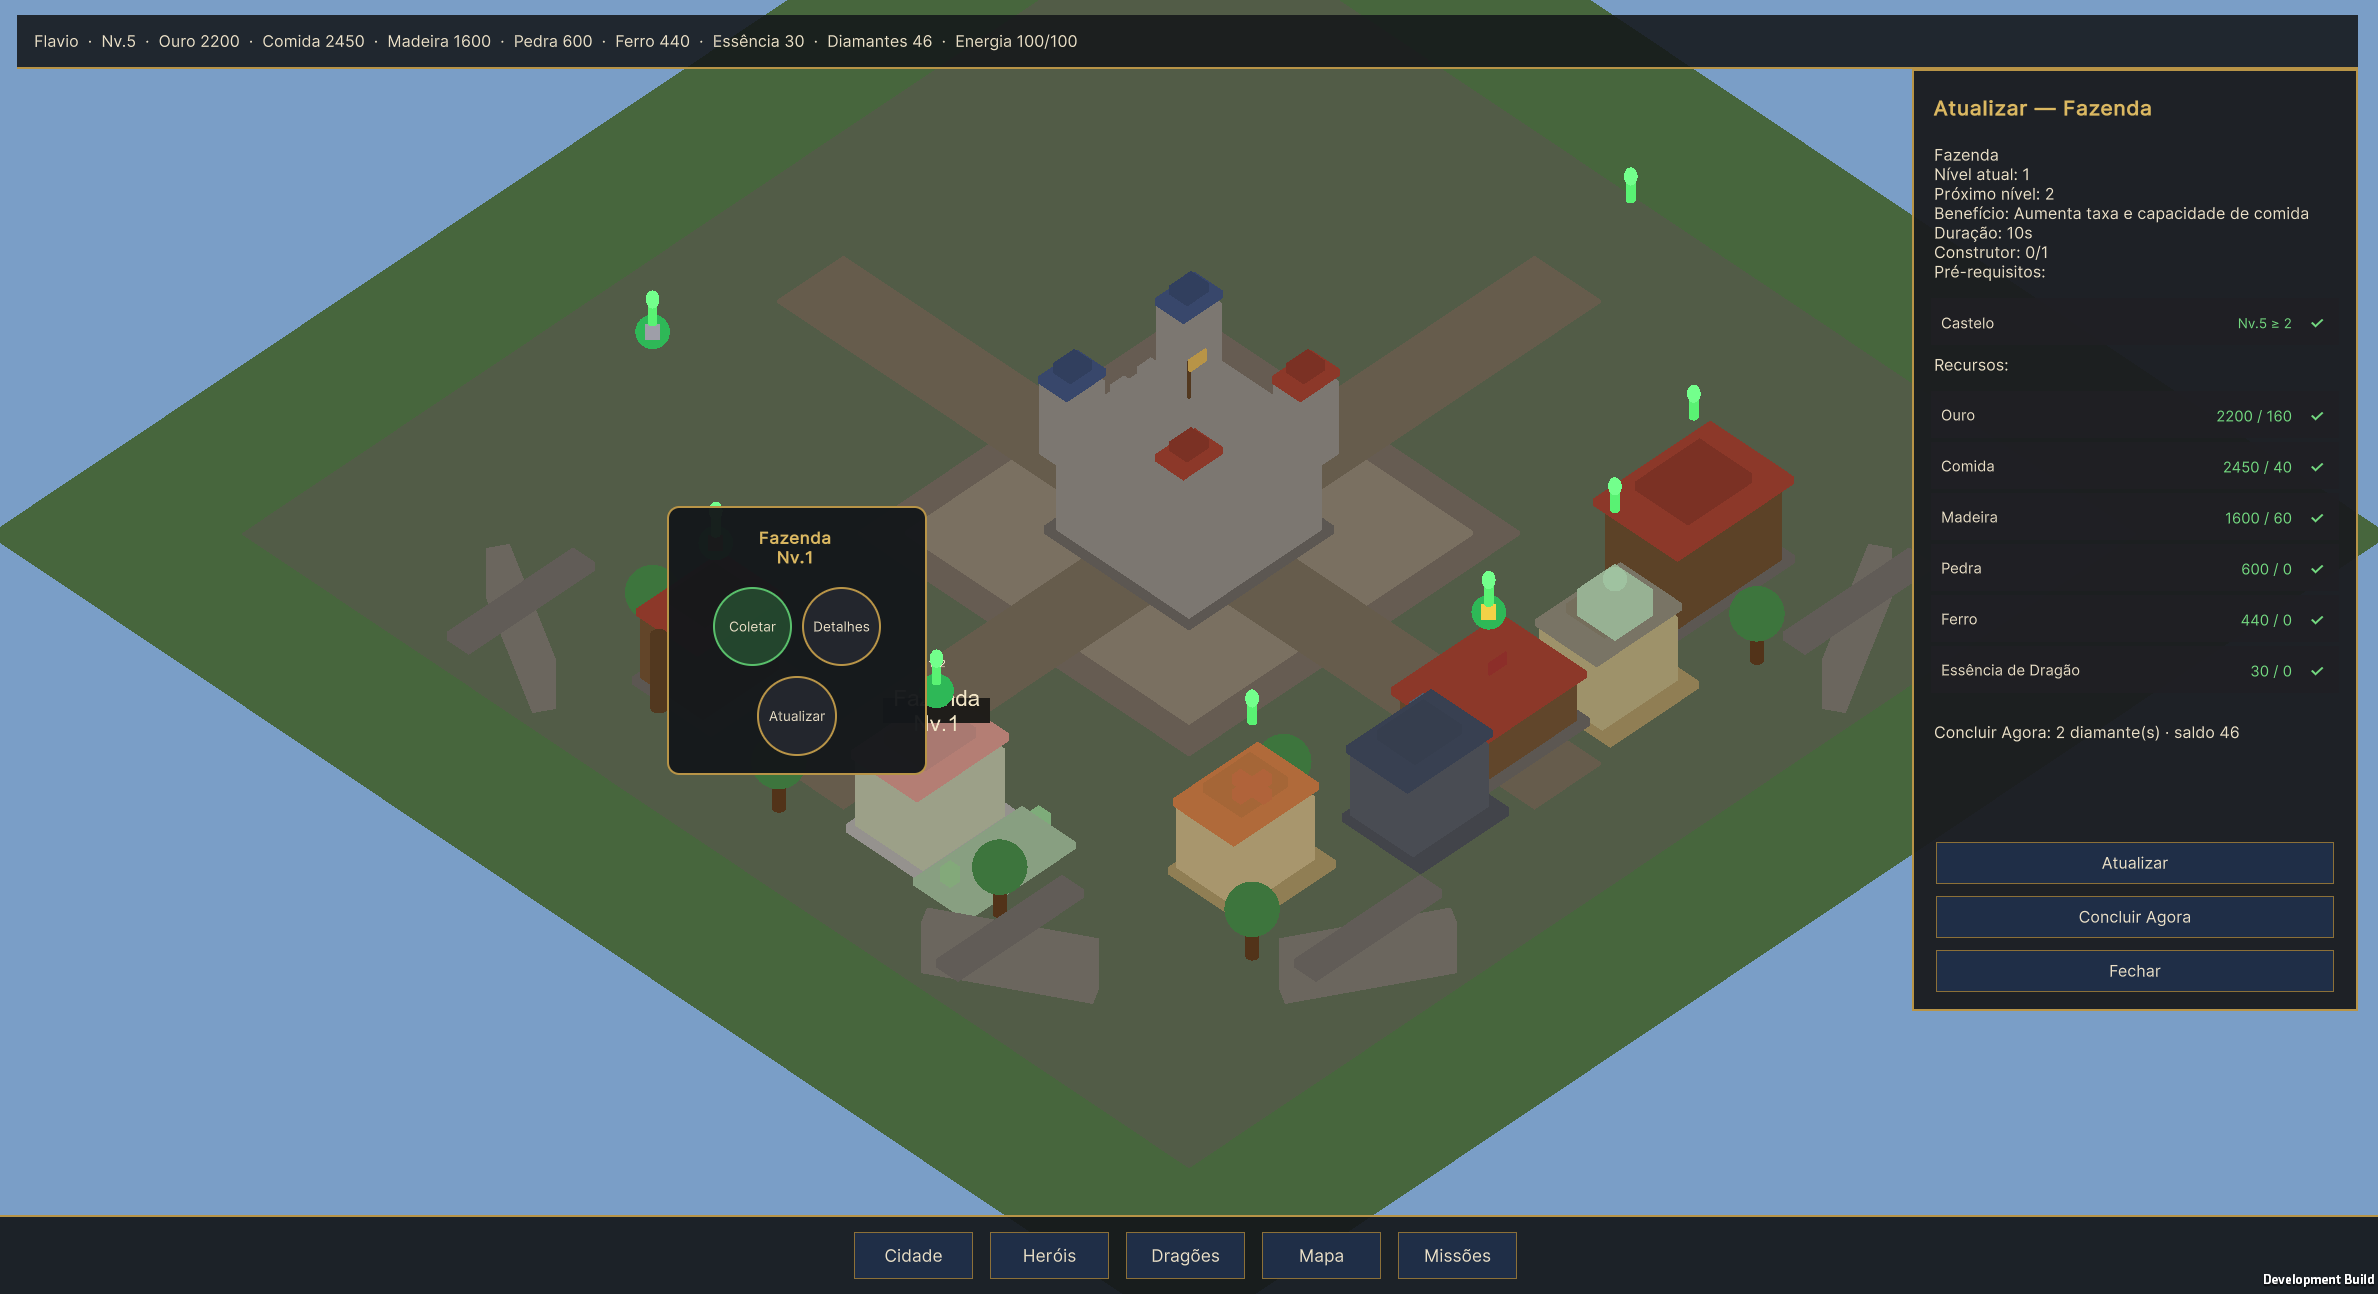
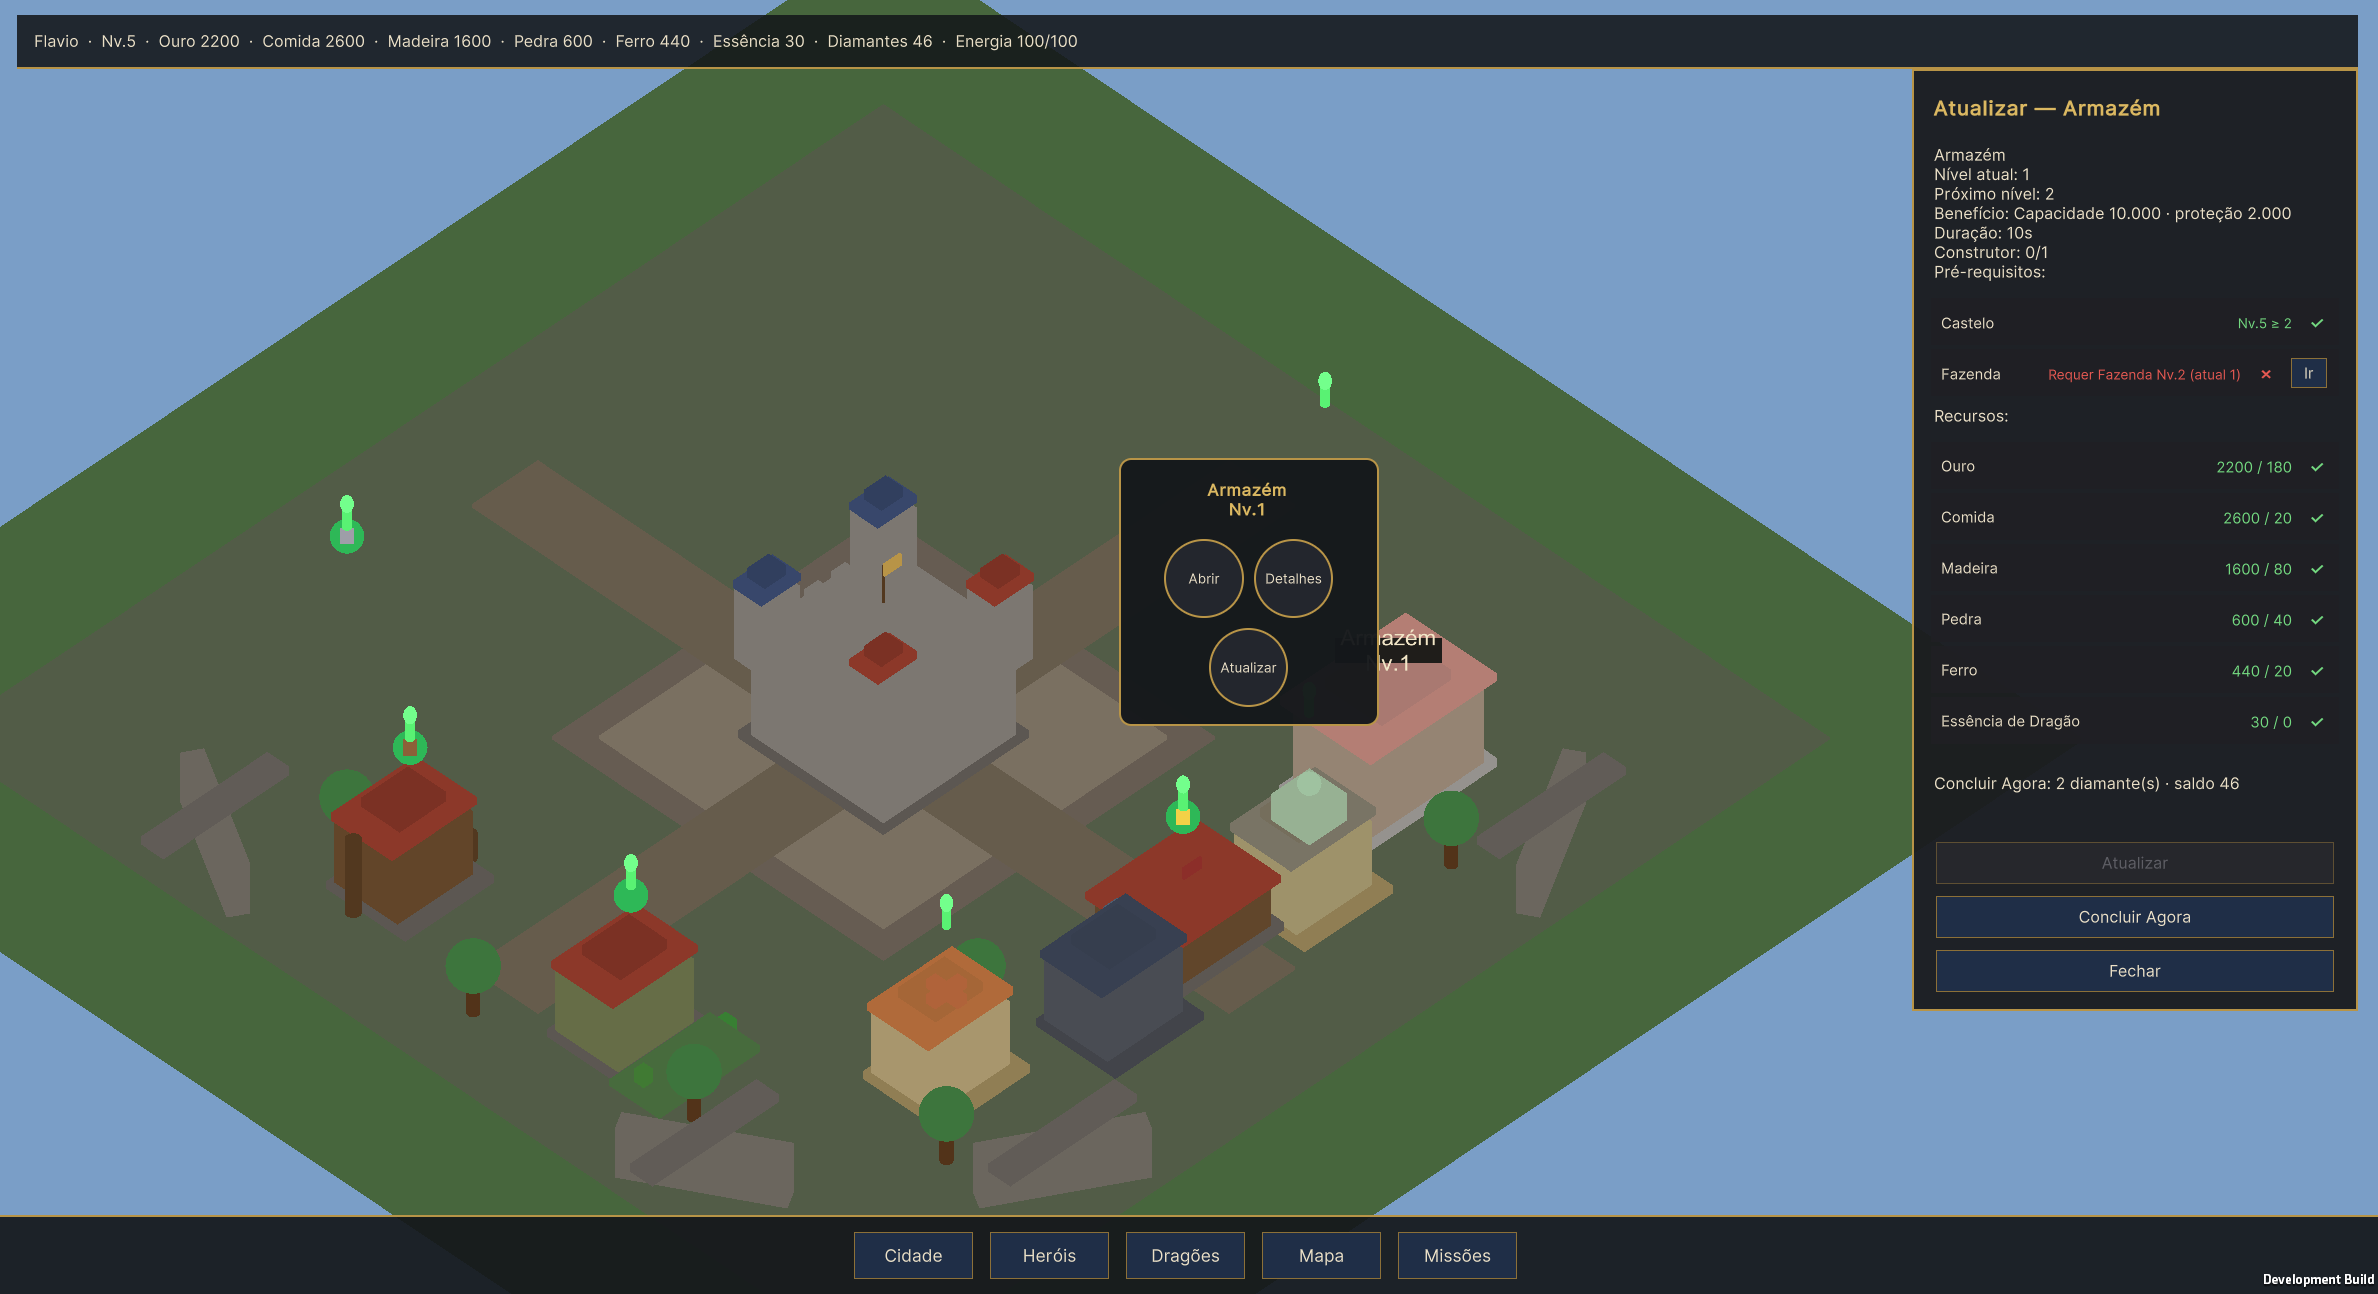
feat(city): show blocked warehouse prereq with Ir to farm
Warehouse→2 requires Farm 2 so smoke/exe validates red deps + Ir navigation.

diff --git a/client/Assets/_Valgor/Scripts/Runtime/UI/CheckpointSmokeDriver.cs b/client/Assets/_Valgor/Scripts/Runtime/UI/CheckpointSmokeDriver.cs
@@ -181,14 +181,17 @@ namespace Valgor.UI
             yield return Capture("ux-06-upgrade-panel");
             yield return Capture("ux-07-upgrade-requirements");
 
-            TrySelectCityBuilding("farm");
+            TrySelectCityBuilding("warehouse");
             yield return new WaitForSecondsRealtime(0.8f);
             InvokeCityPresenter("DebugOpenUpgradePanel");
             yield return new WaitForSecondsRealtime(1f);
             yield return Capture("ux-11-prereq-blocked");
+            // Tentativa bloqueada: não deve debitar recursos (gold permanece).
+            TryCityUpgradeSelected();
+            yield return new WaitForSecondsRealtime(0.3f);
             InvokeCityPresenter("DebugGoToFirstUnmetRequirement");
             yield return new WaitForSecondsRealtime(1.2f);
-            yield return Capture("ux-12-prereq-go-castle");
+            yield return Capture("ux-12-prereq-go-farm");
 
             TrySelectCityBuilding("farm");
             yield return new WaitForSecondsRealtime(0.8f);

diff --git a/tools/Valgor.GameLogic.Tests/CityFoundationTests.cs b/tools/Valgor.GameLogic.Tests/CityFoundationTests.cs
@@ -159,11 +159,11 @@ public sealed class BuildingRequirementCatalogTests
     }
 
     [Fact]
-    public void Warehouse_Level2_RequiresFarm1()
+    public void Warehouse_Level2_RequiresFarm2()
     {
         var req = BuildingRequirementCatalog.GetRequirement("warehouse", currentLevel: 1);
         Assert.Equal(2, req.MinimumCastleLevel);
-        Assert.Contains(req.RequiredBuildings, b => b.BuildingDefinitionId == "farm" && b.MinimumLevel == 1);
+        Assert.Contains(req.RequiredBuildings, b => b.BuildingDefinitionId == "farm" && b.MinimumLevel == 2);
     }
 
     [Fact]
@@ -216,7 +216,7 @@ public sealed class BuildingRequirementCatalogTests
         var ok = BuildingRequirementEvaluator.MeetsAll(
             warehouse,
             castleLevel: 2,
-            id => id == "farm" ? 1 : 0);
+            id => id == "farm" ? 2 : 0);
 
         Assert.True(ok);
     }

diff --git a/client/Assets/Valgor/City/Buildings/BuildingRequirementCatalog.cs b/client/Assets/Valgor/City/Buildings/BuildingRequirementCatalog.cs
@@ -69,7 +69,7 @@ namespace Valgor.City.Buildings
                     defaultRequirement: DynamicCastle(),
                     byTargetLevel: new Dictionary<int, BuildingUpgradeRequirement>
                     {
-                        [2] = WithBuildings(2, new BuildingLevelRequirement("farm", 1, "Fazenda")),
+                        [2] = WithBuildings(2, new BuildingLevelRequirement("farm", 2, "Fazenda")),
                         [3] = WithBuildings(3, new BuildingLevelRequirement("farm", 2, "Fazenda")),
                         [4] = WithBuildings(4, new BuildingLevelRequirement("farm", 2, "Fazenda")),
                         [5] = WithBuildings(5, new BuildingLevelRequirement("farm", 3, "Fazenda"))

diff --git a/docs/project-control/VALGOR_IMPLEMENTATION_STATUS.md b/docs/project-control/VALGOR_IMPLEMENTATION_STATUS.md
@@ -1,4 +1,4 @@
-# VALGOR — Matriz de Implementação e Auditoria de Aderência
+# VALGOR — Matriz de Implementação e Auditoria de Aderência
 
 **Documento:** `docs/project-control/VALGOR_IMPLEMENTATION_STATUS.md`  
 **Auditoria:** 2026-07-27  
@@ -326,10 +326,11 @@ Histórico completo: `git log --oneline` no repositório.
 - Sem novos edifícios; sem reescrita do fluxo de upgrade; **sem** arquivos de outros repositórios.
 - `dotnet test tools/Valgor.GameLogic.Tests`: **125 aprovados / 0 falha / 125 total**.
 - `dotnet test server/Valgor.sln`: **23 aprovados / 0 falha / 23 total** (Domain 15 + Application 4 + Api 4).
-- Build: `C:\Valgor_Studio\builds\windows\Valgor-Beta-0.1\Valgor.exe` (Length=672256, LastWriteTime=2026-07-27 15:06:01).
+- Build: `C:\Valgor_Studio\builds\windows\Valgor-Beta-0.1\Valgor.exe` (Length=672256, LastWriteTime=2026-07-27 15:11:43).
+- Evidência smoke: `ux-11-prereq-blocked` (Armazém bloqueado — pré-requisito Fazenda em vermelho + botão **Ir**; Atualizar desabilitado/bloqueado) e `ux-12-prereq-go-farm` (após **Ir**, Fazenda selecionada/focada).
 - Smoke: `scripts/capture-checkpoint-evidence.ps1` exit 0; PNGs em `builds/windows/Valgor-Beta-0.1/evidence/` e versionados em `docs/releases/beta-0.1-evidence/ux-contextual/`:
   - `ux-11-prereq-blocked.png`
-  - `ux-12-prereq-go-castle.png`
+  - `ux-12-prereq-go-farm.png`
 
 ## Patch crítico — clique nos edifícios (2026-07-27)
 

diff --git a/docs/architecture/city-building-upgrade-requirements.md b/docs/architecture/city-building-upgrade-requirements.md
@@ -25,7 +25,7 @@ Extensão do upgrade existente (sem novos edifícios). Um prédio só evolui qua
 | Edifício | Evoluir para Nv.N |
 |----------|-------------------|
 | **Fazenda** | Castelo ≥ N |
-| **Armazém** | Castelo ≥ N; em níveis do catálogo, Fazenda no nível exigido |
+| **Armazém** | Castelo ≥ N; Nv.2+ exige Fazenda (Nv.2 no catálogo para alvo 2–4; Nv.3 para alvo 5) |
 | **Castelo** | Fazenda e Armazém nos níveis do catálogo (sem gate de Castelo) |
 
 ## Integração
